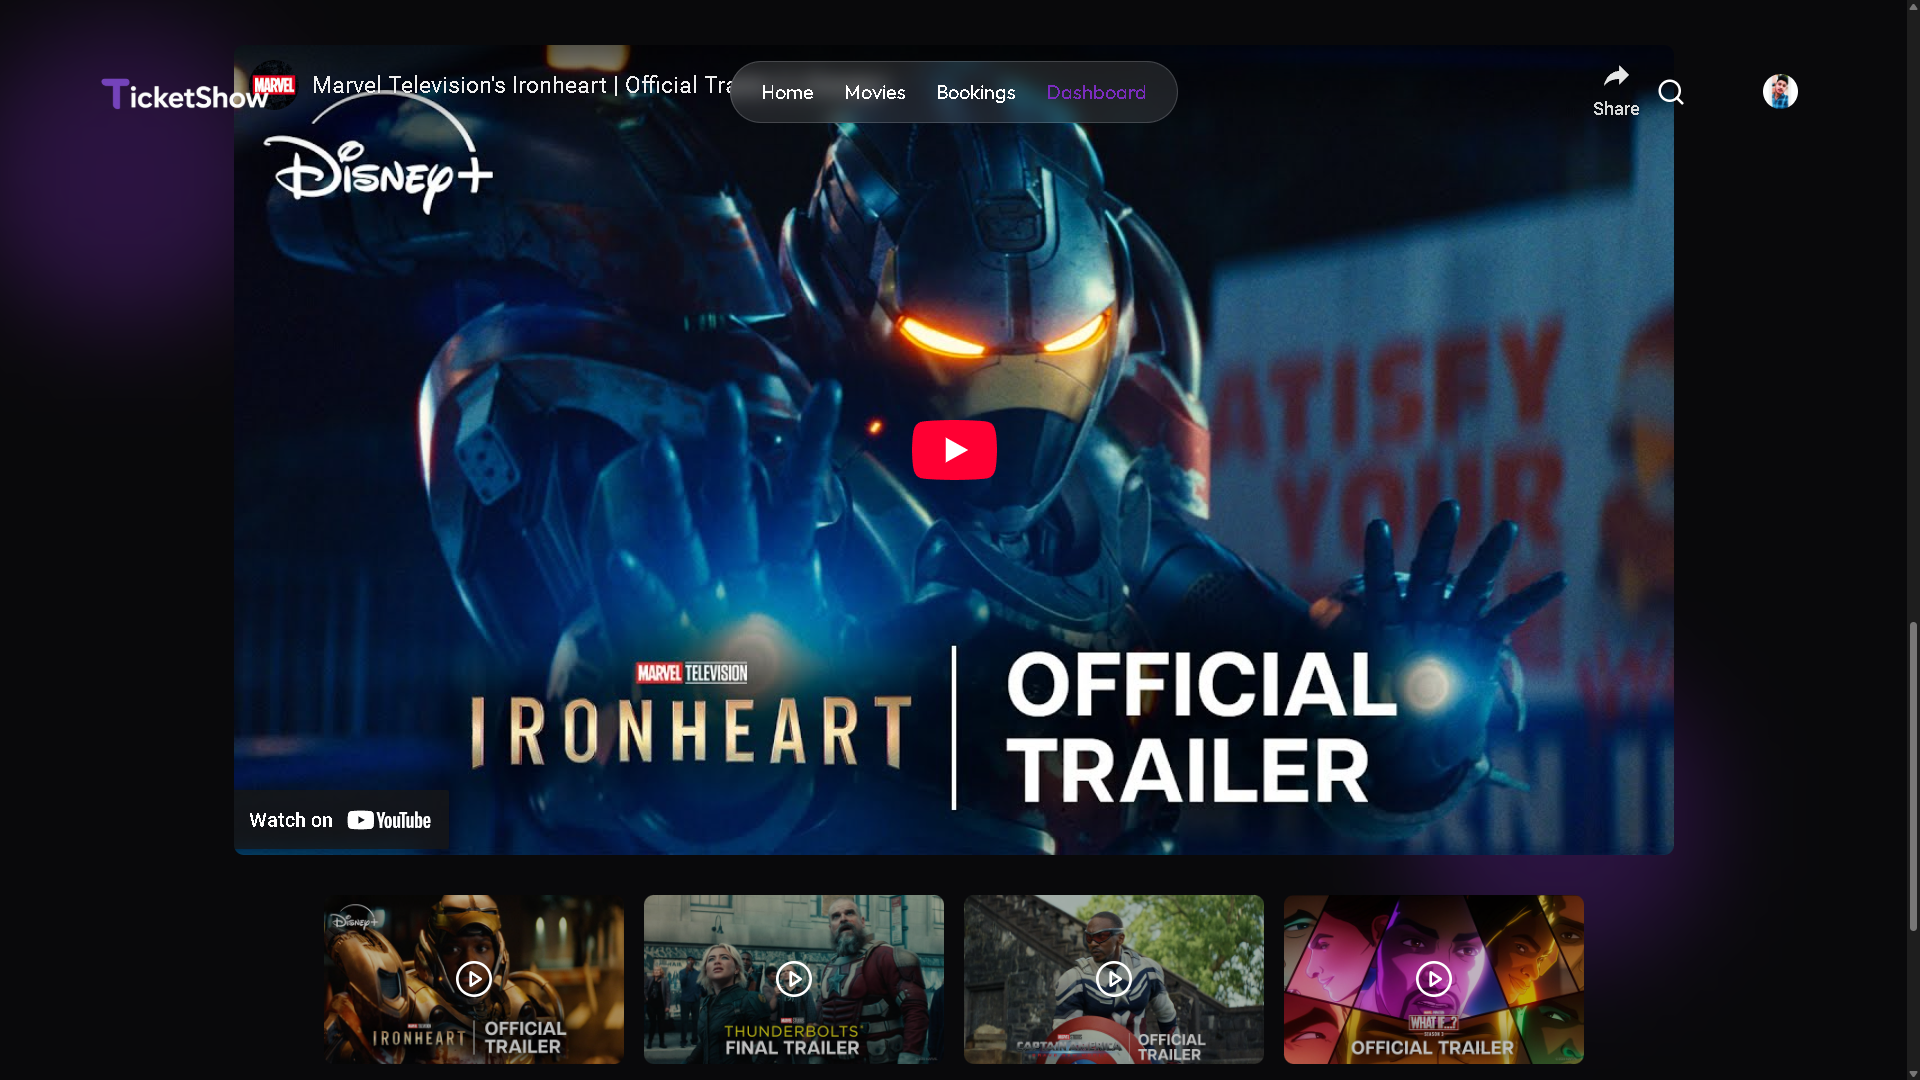
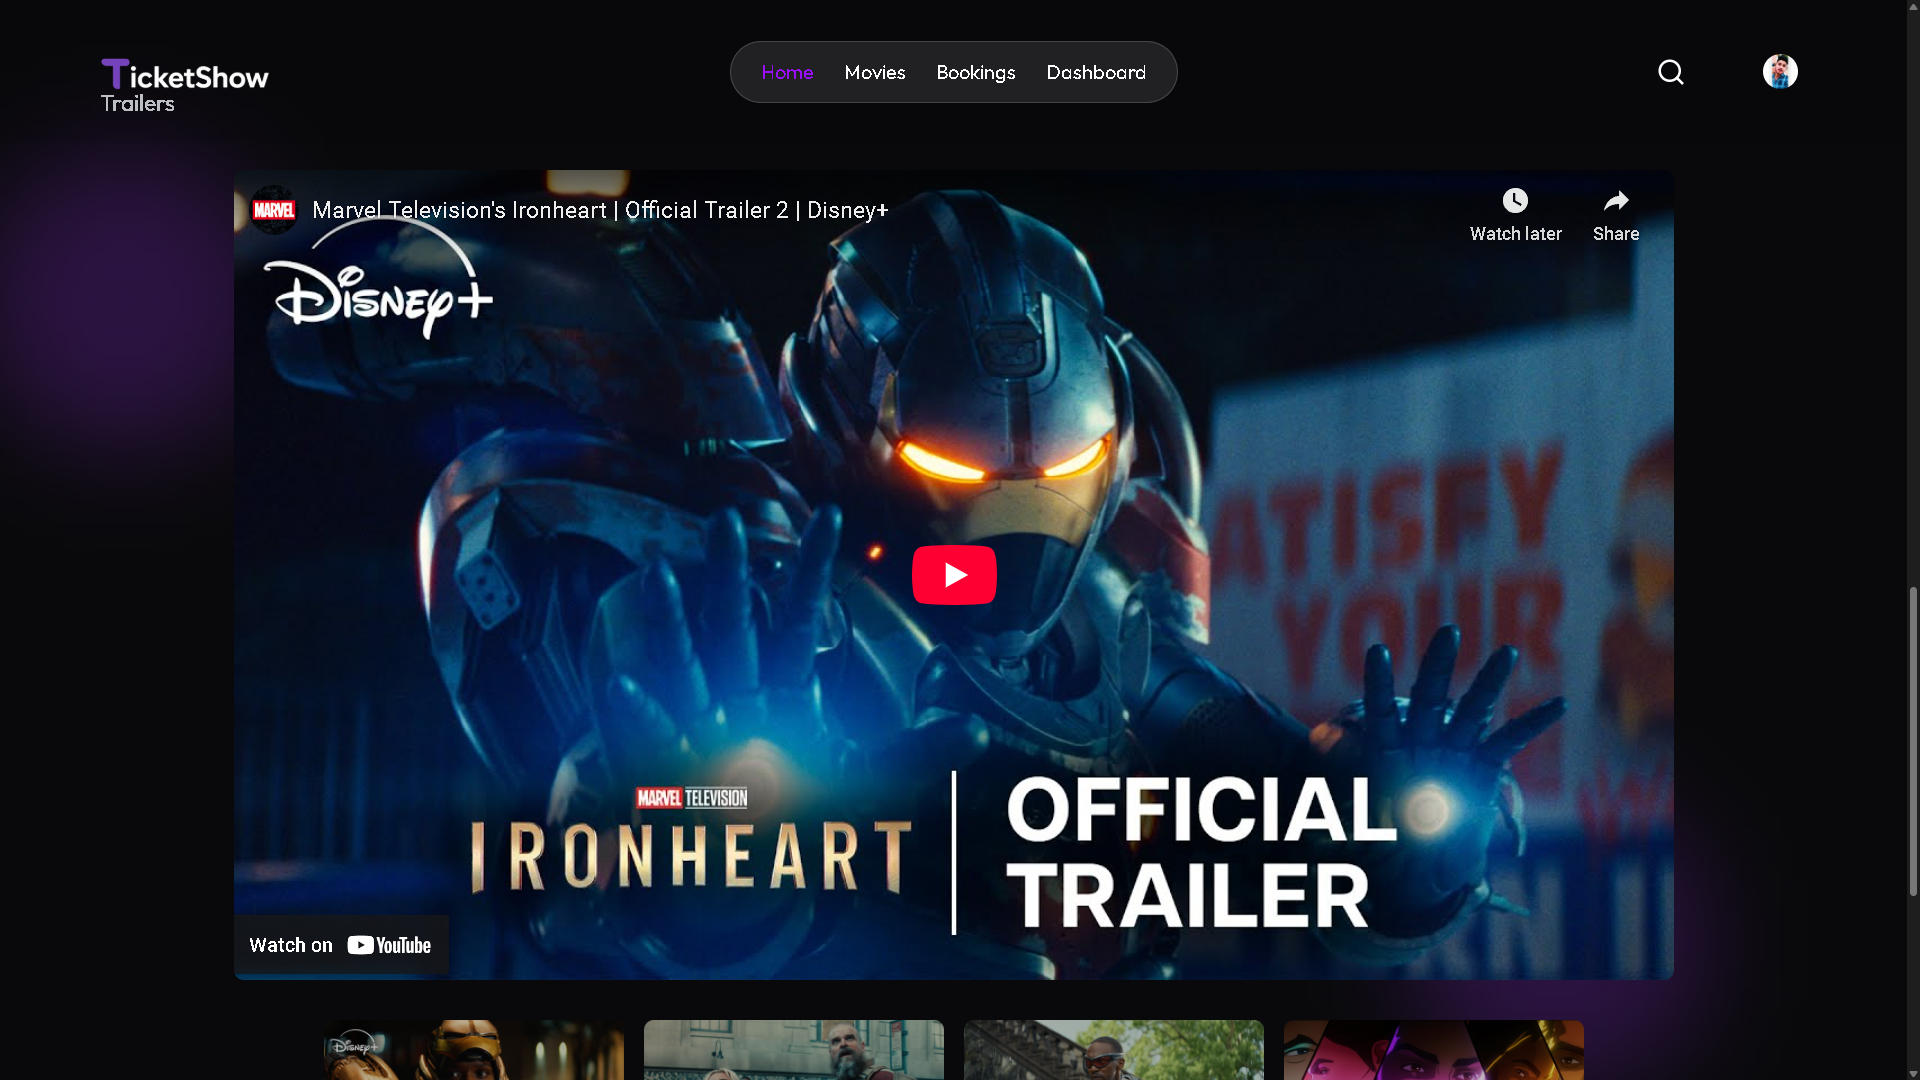
fixed issue

diff --git a/client/src/components/Navbar.jsx b/client/src/components/Navbar.jsx
@@ -1,26 +1,63 @@
-import { useState } from "react";
+import { useState, useRef, useEffect } from "react";
 import { Link, useNavigate, useLocation } from "react-router-dom";
 import { MenuIcon, SearchIcon, TicketPlus, XIcon } from "lucide-react";
 import { useClerk, UserButton, useUser } from "@clerk/clerk-react";
 import { useAppContext } from "../context/Appcontext";
 
 const Navbar = () => {
-  const { favorites } = useAppContext();
+  const { favorites, shows } = useAppContext();
+  console.log("shows:", shows);
+
   const [isOpen, setisOpen] = useState(false);
+  const [searchOpen, setSearchOpen] = useState(false);
+  const [searchTerm, setSearchTerm] = useState("");
   const { user } = useUser();
   const { openSignIn } = useClerk();
   const navigate = useNavigate();
   const location = useLocation();
 
-  // Function to decide if the link is active
+  const searchRef = useRef();
+
+  useEffect(() => {
+    const handleClickOutside = (event) => {
+      if (searchRef.current && !searchRef.current.contains(event.target)) {
+        setSearchOpen(false); // search close anywhere outside
+      }
+    };
+
+    document.addEventListener("click", handleClickOutside);
+
+    return () => {
+      document.removeEventListener("click", handleClickOutside);
+    };
+  }, []);
+
   const getLinkClass = (path) => {
     return location.pathname === path
       ? "text-purple-600 hover:text-purple-700 transition-colors"
       : "text-white hover:text-primary transition-colors";
   };
 
+  const filteredMovies =
+    searchTerm.trim() === ""
+      ? shows.length > 0
+        ? [shows[0]]
+        : []
+      : shows.filter((movie) =>
+          movie.originalTitle.toLowerCase().includes(searchTerm.toLowerCase())
+        );
+
+  console.log("filteredMovies:", filteredMovies);
+
+  const handleMovieClick = (id) => {
+    setSearchTerm("");
+    setSearchOpen(false);
+    navigate(`/movies/${id}`);
+  };
+
   return (
-    <div className="fixed top-0 left-0 z-50 w-full flex items-center justify-between px-6 md:px-8 lg:px-16 py-5">
+    <div className="fixed top-0 left-0 z-50 w-full flex items-center justify-between px-6 md:px-8 lg:px-16 py-1 bg-black/10 ">
+      {/* Logo */}
       <Link
         to="/"
         onClick={() => {
@@ -30,6 +67,8 @@ const Navbar = () => {
       >
         <img src="/navlogo.png" alt="Logo" className="h-auto w-40" />
       </Link>
+
+      {/* Navigation Links */}
       <div
         className={`max-md:absolute max-md:top-0 max-md:-left-10 max-md:font-medium max-md:text-lg z-50 flex flex-col md:flex-row items-center max-md:justify-center gap-6 min-md:px-6 py-3 max-md:px-3 max-md:h-screen min-md:rounded-full backdrop-blur bg-black/70 md:bg-white/10 md:border border-gray-300/20 overflow-hidden transition-[width] duration-300 ${
           isOpen ? "max-md:w-full" : "max-md:w-0"
@@ -37,9 +76,7 @@ const Navbar = () => {
       >
         <XIcon
           className="min-md:hidden absolute top-6 right-6 w-8 h-8 cursor-pointer"
-          onClick={() => {
-            setisOpen(false);
-          }}
+          onClick={() => setisOpen(false)}
         />
         <Link
           to="/"
@@ -94,8 +131,65 @@ const Navbar = () => {
           Dashboard
         </Link>
       </div>
-      <div className="w-40 flex items-center justify-around">
-        <SearchIcon className="max-md:hidden w-6 h-6 mr-4" />
+
+      {/* Search and User Controls */}
+      <div className="w-40 flex items-center justify-around relative">
+        <div ref={searchRef} className="relative">
+          <SearchIcon
+            className="max-md:hidden w-6 h-6 mr-4 cursor-pointer"
+            onClick={(e) => {
+              e.stopPropagation(); // stop bubbling so it won’t trigger outside handler
+              setSearchOpen((prev) => !prev); // toggle search on/off
+            }}
+          />
+          {searchOpen && (
+            <div className="absolute right-0 top-8 bg-black p-3 rounded shadow-lg w-80 z-50 max-h-[400px] overflow-y-auto border border-gray-700">
+              <input
+                type="text"
+                placeholder="Search movies..."
+                value={searchTerm}
+                onChange={(e) => setSearchTerm(e.target.value)}
+                className="w-full bg-black border border-gray-700 text-white placeholder-gray-500 p-2 rounded mb-3 focus:outline-none focus:ring-2 focus:ring-purple-600"
+              />
+              <div className="flex flex-col gap-3">
+                {filteredMovies.length > 0 ? (
+                  filteredMovies.map((movie) => (
+                    <div
+                      key={movie._id}
+                      className="flex gap-3 cursor-pointer hover:bg-gray-800 p-3 rounded transition duration-200"
+                      onClick={() => handleMovieClick(movie._id)}
+                    >
+                      <img
+                        src={movie.primaryImage}
+                        alt={movie.originalTitle}
+                        className="w-20 h-30 object-cover rounded"
+                      />
+                      <div className="flex flex-col justify-start text-white">
+                        <span className="font-bold">{movie.originalTitle}</span>
+                        <span className="text-sm text-gray-400">
+                          Rating: {movie.averageRating || "N/A"}
+                        </span>
+                        <span className="text-xs text-gray-500 line-clamp-2">
+                          {movie.description}
+                        </span>
+                        <span className="text-xs text-gray-500">
+                          Duration:{" "}
+                          {movie.runtime ? `${movie.runtime} min` : "N/A"}
+                        </span>
+                        <span className="text-xs text-gray-500">
+                          Genres: {movie.genres.join(", ")}
+                        </span>
+                      </div>
+                    </div>
+                  ))
+                ) : (
+                  <div className="text-gray-500 p-2">No movies found</div>
+                )}
+              </div>
+            </div>
+          )}
+        </div>
+
         {!user ? (
           <button
             onClick={openSignIn}
@@ -109,19 +203,17 @@ const Navbar = () => {
               <UserButton.Action
                 label="My Bookings"
                 labelIcon={<TicketPlus width={15} />}
-                onClick={() => {
-                  navigate("/my-bookings");
-                }}
+                onClick={() => navigate("/my-bookings")}
               />
             </UserButton.MenuItems>
           </UserButton>
         )}
       </div>
+
+      {/* Hamburger Menu Icon */}
       <MenuIcon
         className="min-md:hidden w-8 h-8 cursor-pointer"
-        onClick={() => {
-          setisOpen(true);
-        }}
+        onClick={() => setisOpen(true)}
       />
     </div>
   );

diff --git a/client/src/components/Adminsidebar.jsx b/client/src/components/Adminsidebar.jsx
@@ -1,45 +1,74 @@
 import { useState } from 'react'
+import { LayoutDashboardIcon, ListCollapseIcon, ListIcon, MenuIcon, PlusCircleIcon } from 'lucide-react'
+import { NavLink } from 'react-router-dom'
+import { useAppContext } from '../context/Appcontext' // ✅ import context
 import { assets } from '../assets/assets'
-import { LayoutDashboardIcon, ListCollapseIcon, ListIcon, MenuIcon, PlusCircleIcon, XIcon } from 'lucide-react'
-import { NavLink } from 'react-router-dom';
 
 const Adminsidebar = () => {
-    const [isOpen, setisOpen] = useState(false);
-    const user = {
-        firstName: 'Admin',
-        lastName: 'User',
-        imageUrl: assets.profile
-    }
+  const [isOpen, setisOpen] = useState(false);
+  const { user } = useAppContext(); // ✅ get user from context
 
-    const adminLinks = [
-        {name: 'Dashboard', pathname : '/admin', icon : LayoutDashboardIcon},
-        {name:'Add Shows' , pathname : '/admin/add-shows', icon: PlusCircleIcon},
-        {name : 'List Shows', pathname : '/admin/list-shows', icon : ListIcon},
-        {name : 'List Bookings', pathname : '/admin/list-bookings', icon: ListCollapseIcon}
-    ]
+  // fallback agar user ya image na ho to
+  const profilePic = user?.imageUrl || assets.profile;
+  const fullName = user ? `${user.firstName || ''} ${user.lastName || ''}`.trim() : "Admin User";
+
+  const adminLinks = [
+    { name: 'Dashboard', pathname: '/admin', icon: LayoutDashboardIcon },
+    { name: 'Add Shows', pathname: '/admin/add-shows', icon: PlusCircleIcon },
+    { name: 'List Shows', pathname: '/admin/list-shows', icon: ListIcon },
+    { name: 'List Bookings', pathname: '/admin/list-bookings', icon: ListCollapseIcon }
+  ]
+
   return (
-    <>
     <div>
-    <MenuIcon className='w-8 h-8 min-md:hidden absolute top-5 left-5' onClick={() => setisOpen(!isOpen)}/>
-      <div className={`flex flex-col h-[calc(100vh-72px)] items-center pt-8 max-md:bg-primary/20 max-md:backdrop-blur-xl max-w-55 w-full border-r border-gray-300/30 text-lg max-md:text-md max-md:absolute z-50 transition-[width] overflow-hidden duration-300 ${isOpen ? 'max-md:w-full' : 'max-md:w-0'}`}>
-            <img src={user.imageUrl} alt="User" className='w-14 h-14 md:h-16 md:w-16 rounded-full mx-20'/>
-            <p className='py-2 text-base font-medium max-md:hidden'>{user.firstName} {user.lastName}</p>
-            <div className='w-full'>
-                {adminLinks.map((link,index) => {
-                   return <NavLink key={index} to={link.pathname} end className={({isActive}) => `relative flex items-center max-md:justify-center gap-2 w-full py-2.5 min-md:pl-10 first:mt-6 text-gray-400 ${isActive && 'bg-primary/15 text-primary group'}`}>
-                        {({isActive}) => (
-                            <>
-                             <link.icon className='w-5 h-5 max-md:w-4 max-md:h-4'/>
-                             <p className='text-sm'>{link.name}</p>
-                             <span className={`w-1.5 h-10 rounded-l right-0 absolute ${isActive && 'bg-primary'} `}/>
-                            </>
-                        )}
-                    </NavLink>
-                })}
-            </div>
+      {/* Toggle button for mobile */}
+      <MenuIcon
+        className='w-8 h-8 min-md:hidden absolute top-5 left-5 cursor-pointer'
+        onClick={() => setisOpen(!isOpen)}
+      />
+
+      {/* Sidebar */}
+      <div
+        className={`flex flex-col h-[calc(100vh-72px)] items-center pt-8 
+          max-md:bg-primary/20 max-md:backdrop-blur-xl max-w-55 w-full 
+          border-r border-gray-300/30 text-lg max-md:text-md max-md:absolute 
+          z-50 transition-[width] overflow-hidden duration-300 
+          ${isOpen ? 'max-md:w-full' : 'max-md:w-0'}`}
+      >
+        {/* User Profile */}
+        <img
+          src={profilePic}
+          alt="User"
+          className='w-14 h-14 md:h-16 md:w-16 rounded-full mx-20'
+        />
+        <p className='py-2 text-base font-medium max-md:hidden'>
+          {fullName}
+        </p>
+
+        {/* Navigation Links */}
+        <div className='w-full'>
+          {adminLinks.map((link, index) => (
+            <NavLink
+              key={index}
+              to={link.pathname}
+              end
+              className={({ isActive }) =>
+                `relative flex items-center max-md:justify-center gap-2 w-full py-2.5 min-md:pl-10 
+                 first:mt-6 text-gray-400 ${isActive && 'bg-primary/15 text-primary group'}`
+              }
+            >
+              {({ isActive }) => (
+                <>
+                  <link.icon className='w-5 h-5 max-md:w-4 max-md:h-4' />
+                  <p className='text-sm'>{link.name}</p>
+                  <span className={`w-1.5 h-10 rounded-l right-0 absolute ${isActive && 'bg-primary'}`} />
+                </>
+              )}
+            </NavLink>
+          ))}
+        </div>
       </div>
     </div>
-    </>
   )
 }
 

diff --git a/client/src/pages/admin/Dashboard.jsx b/client/src/pages/admin/Dashboard.jsx
@@ -84,6 +84,7 @@ const Dashboard = () => {
       <div className='relative'>
         <BlurCircle top='0' left='0' />
       </div>
+     
       <div className='grid grid-cols-2 min-lg:grid-cols-4 gap-6 max-md:gap-1 mt-8 max-md:pl-5 max-sm:pl-0'>
         {dashboardCards.map((data, index) => {
           return (<div key={index} className='flex justify-between rounded-lg bg-primary/10 border-2 border-primary/20'>
